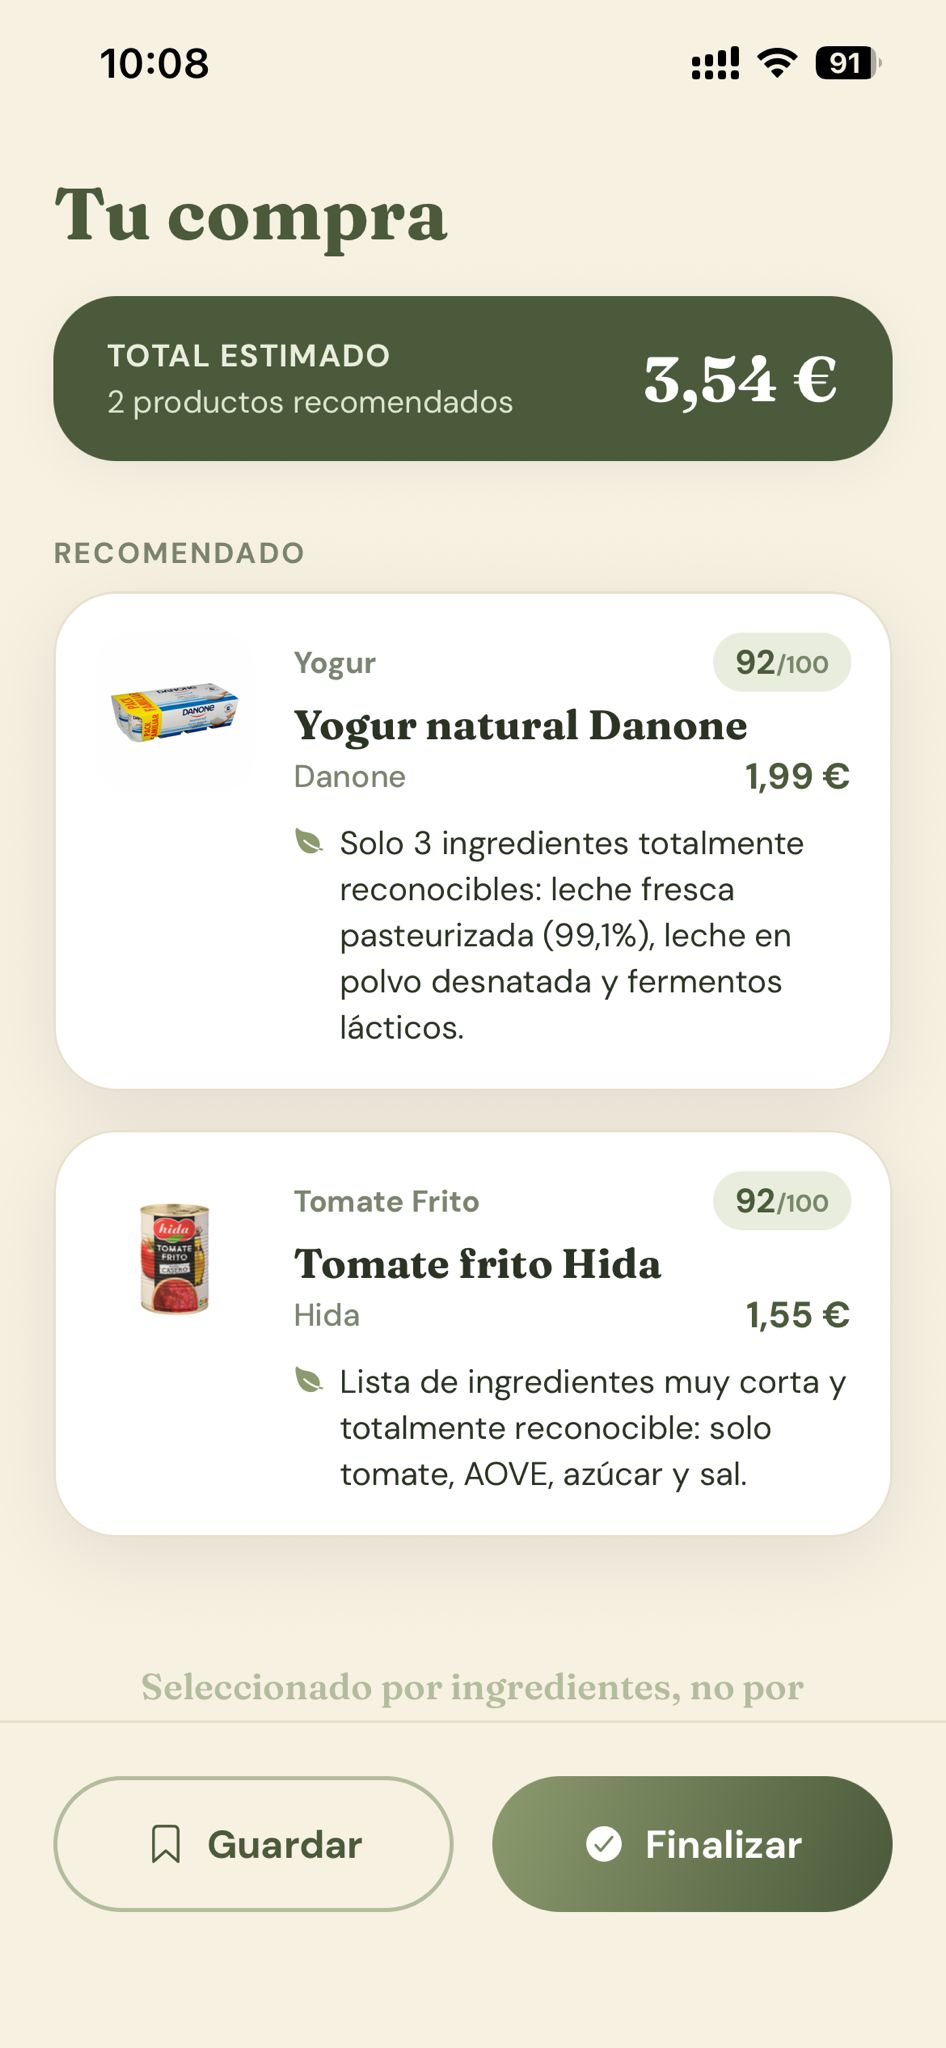
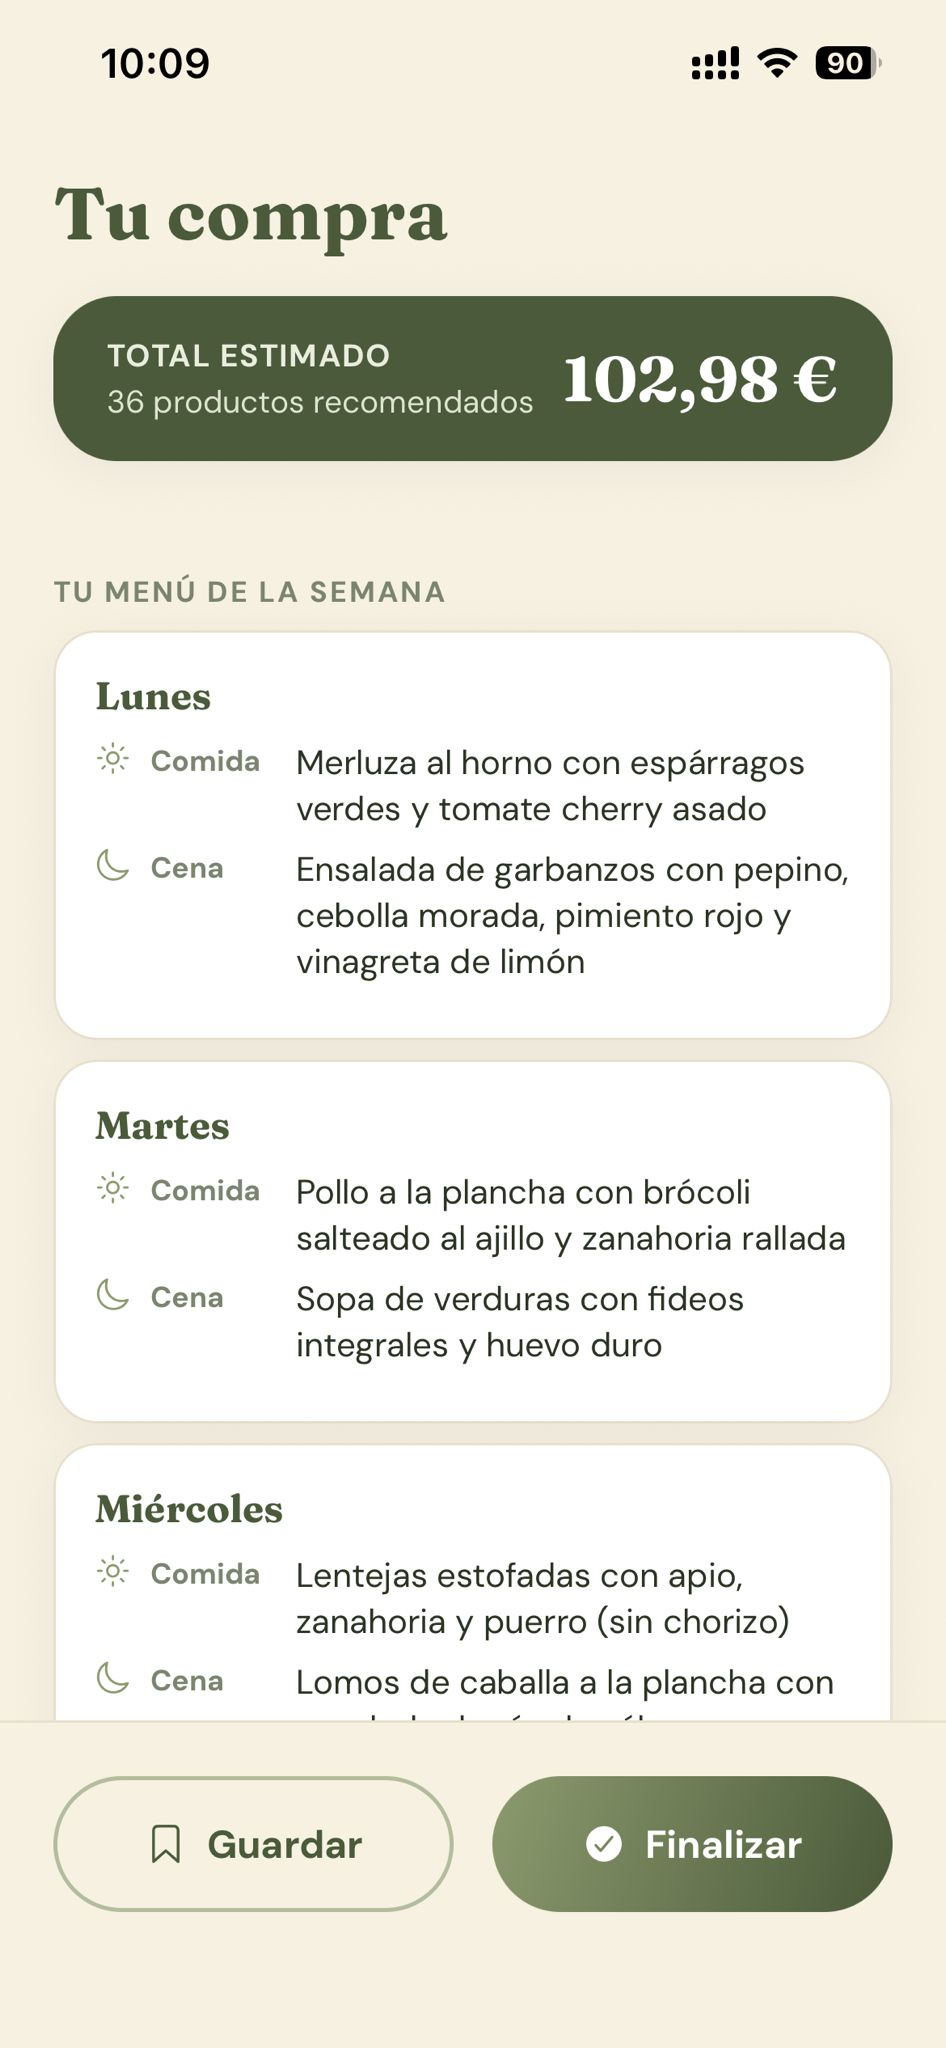
Swap third mockup to the weekly-menu screen
Replace the shopping-list screenshot with the generated weekly-menu view
(days with lunch/dinner + estimated total), which fits the "Menú semanal"
section better. Update alt text and caption accordingly.

diff --git a/index.html b/index.html
@@ -163,8 +163,8 @@
         <figcaption>Genera tu menú</figcaption>
       </figure>
       <figure class="phone-frame reveal">
-        <img src="app-screenshot-3.jpg" alt="Lista de la compra generada por Noura con productos recomendados, su puntuación y el coste total estimado">
-        <figcaption>Tu lista, con precio</figcaption>
+        <img src="app-screenshot-3.jpg" alt="Menú semanal generado por Noura, con comida y cena para cada día y el coste total estimado de la compra">
+        <figcaption>Tu menú de la semana</figcaption>
       </figure>
     </div>
   </div>